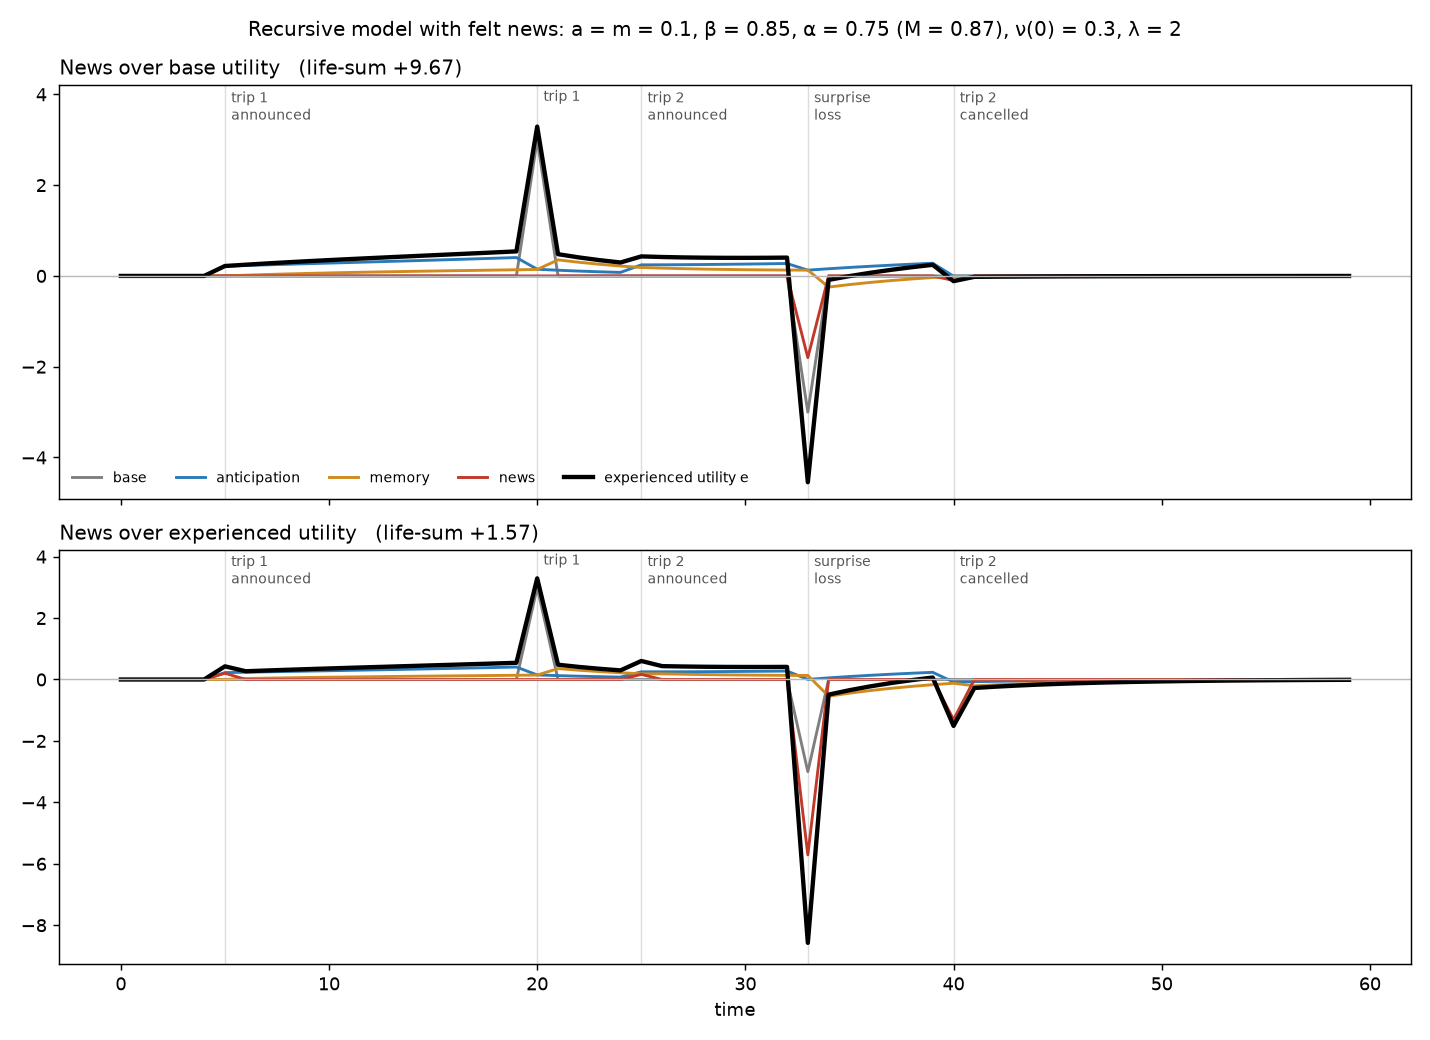
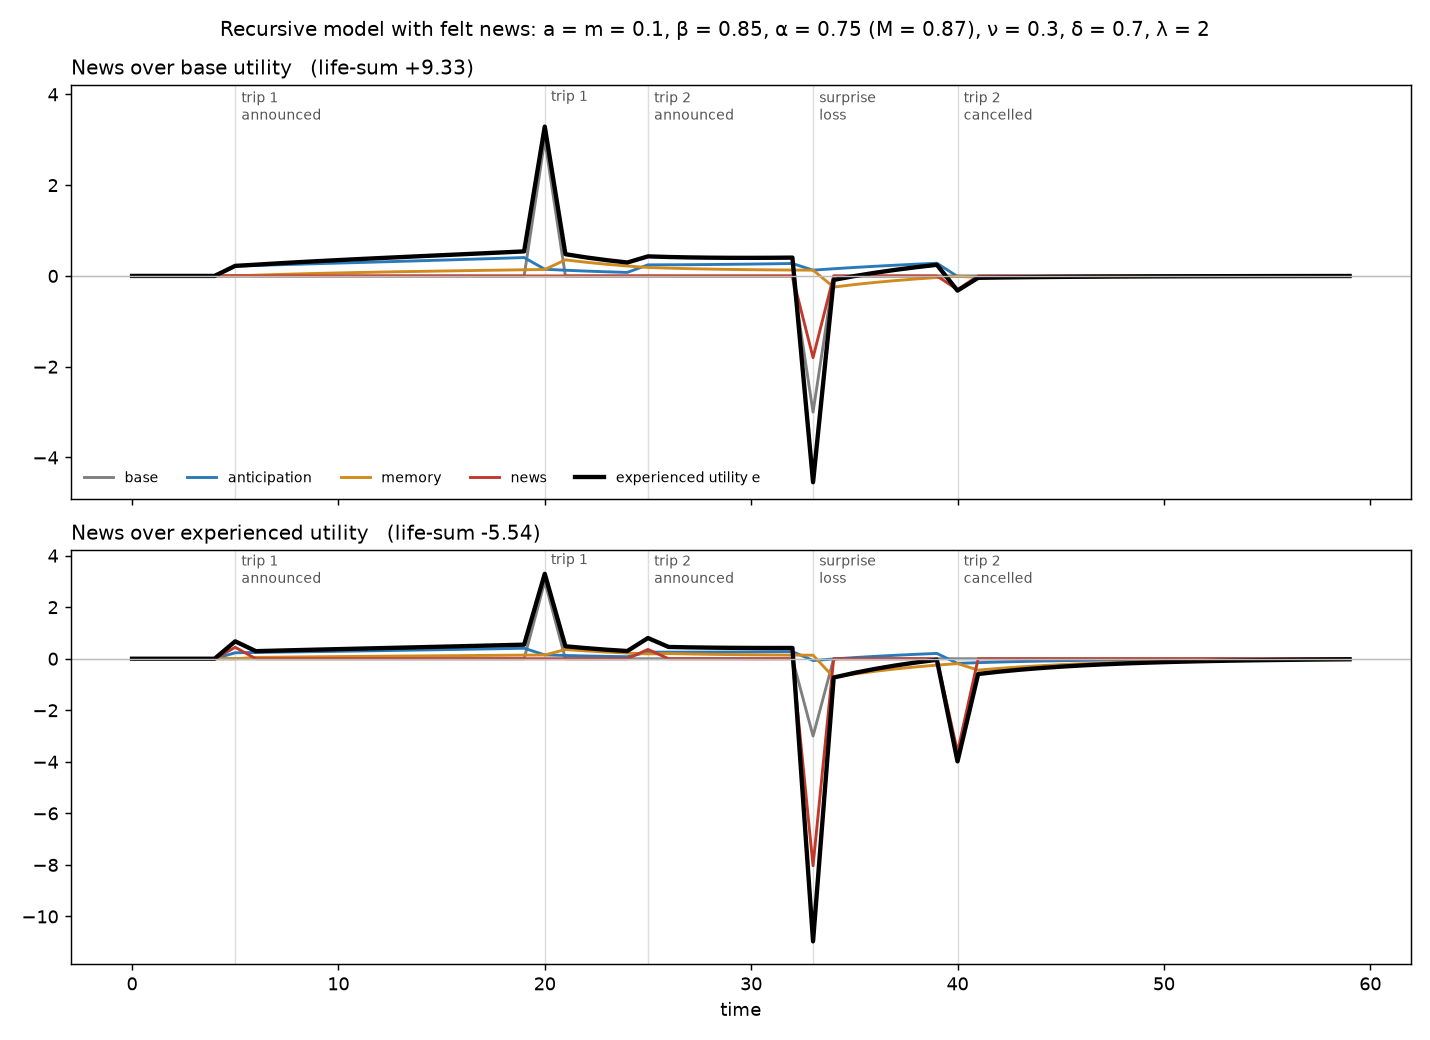
Geometric news kernel nu*delta^j; calibration anchors
- core: news nu*delta^j in the canonical equation and table; Koszegi-Rabin gamma as extension; reduced-form news numbers; calibration subsection (present-bias inversion and the echo-share bill; lambda from news-utility calibrations; the recursive-news threshold tension; Loewenstein's kiss)
- playground and pathwise: geometric news (nu, delta); figure regenerated
- checks: inversion check; reduced-form news numbers
- outline, next-steps, ledger

diff --git a/formalism/playground/index.html b/formalism/playground/index.html
@@ -240,10 +240,10 @@ footer a { color: var(--accent); }
     </section>
 
     <section class="panel" aria-labelledby="h-news">
-      <h2 id="h-news">News</h2>
-      <div class="ctl"><label for="c-nu0"><span>Surprise when it happens ν(0)</span><span class="v" id="v-nu0"></span></label><input type="range" id="c-nu0" min="0" max="0.8" step="0.01"></div>
-      <div class="ctl"><label for="c-nu1"><span>News about the future ν(1)</span><span class="v" id="v-nu1"></span></label><input type="range" id="c-nu1" min="0" max="0.4" step="0.005"></div>
-      <div class="ctl"><label for="c-nuDecay"><span>How far ahead news is felt</span><span class="v" id="v-nuDecay"></span></label><input type="range" id="c-nuDecay" min="0.3" max="0.99" step="0.01"></div>
+      <h2 id="h-news">News ν(j) = ν·δ<sup>j</sup></h2>
+      <div class="ctl"><label for="c-nu"><span>News strength ν</span><span class="v" id="v-nu"></span></label><input type="range" id="c-nu" min="0" max="0.8" step="0.01"></div>
+      <div class="ctl"><label for="c-delta"><span>News reach δ</span><span class="v" id="v-delta"></span></label><input type="range" id="c-delta" min="0" max="0.95" step="0.01"></div>
+      <span class="hint">News about j periods ahead is felt with weight ν·δ<sup>j</sup>; ν alone is the surprise when a moment arrives.</span>
       <div class="ctl"><label for="c-lam"><span>Loss aversion λ</span><span class="v" id="v-lam"></span></label><input type="range" id="c-lam" min="1" max="4" step="0.05"></div>
     </section>
 
@@ -263,7 +263,7 @@ footer a { color: var(--accent); }
   </div>
 
   <footer>
-    <span>Each self solves for its own felt experience and its forecast of the rest of its life, given what it knows. Forecasts expect no further news. News is loss-averse: bad revisions count λ times. Kernels and news weights are geometric.</span>
+    <span>Each self solves for its own felt experience and its forecast of the rest of its life, given what it knows. Forecasts expect no further news. News is loss-averse: bad revisions count λ times. Anticipation, memory and news weights are all geometric.</span>
     <span>Model: <a href="https://github.com/a9lim/convolutional-utility" target="_blank" rel="noopener">a9lim/convolutional-utility</a>, <code>formalism/core.md</code> (felt news, N1–N4) and <code>formalism/pathwise.py</code>, which this page reproduces.</span>
   </footer>
 </div>
@@ -274,7 +274,7 @@ footer a { color: var(--accent); }
   "use strict";
   const $ = (id) => document.getElementById(id);
 
-  const SHARED = { a: 0.09, b: 0.88, m: 0.05, al: 0.75, nu0: 0.3, nu1: 0.06, nuDecay: 0.97, lam: 2, base: 0, T: 50 };
+  const SHARED = { a: 0.09, b: 0.88, m: 0.05, al: 0.75, nu: 0.3, delta: 0.8, lam: 2, base: 0, T: 50 };
   const PRESETS = [
     { key: "disneyland", name: "Disneyland",
       note: "<strong>A big trip, announced early.</strong> The news lands as a jolt. The excitement fades into a lull while the trip is far away, then anticipation ramps up as it gets close. Afterwards, memory carries an afterglow. The close-up scale clips the trip itself so the build-up is visible.",
@@ -282,7 +282,7 @@ footer a { color: var(--accent); }
       events: [{ name: "Disneyland", at: 34, value: 5, announce: 6, cancel: null }] },
     { key: "trips", name: "Two trips and a surprise",
       note: "<strong>The scenario from the project figure.</strong> The first trip happens as planned, so it brings no news when it arrives. A surprise loss hits with base utility and news together, then lingers in memory. The second trip is cancelled: with news about how life will feel, that costs the anticipation you were counting on.",
-      params: { a: 0.1, b: 0.85, m: 0.1, al: 0.75, nu0: 0.3, nu1: 0.07, nuDecay: 0.7, lam: 2, base: 0, T: 60 }, over: "e", recursive: true,
+      params: { a: 0.1, b: 0.85, m: 0.1, al: 0.75, nu: 0.3, delta: 0.7, lam: 2, base: 0, T: 60 }, over: "e", recursive: true,
       events: [{ name: "Trip 1", at: 20, value: 3, announce: 5, cancel: null },
                { name: "Trip 2", at: 45, value: 3, announce: 25, cancel: 40 },
                { name: "Surprise loss", at: 33, value: -3, announce: null, cancel: null }] },
@@ -295,14 +295,14 @@ footer a { color: var(--accent); }
       params: { ...SHARED }, over: "e", recursive: true,
       events: [{ name: "Loss", at: 38, value: -4, announce: 10, cancel: null }] },
     { key: "threshold", name: "Past the threshold",
-      note: "<strong>Strong surprise weight and high loss aversion.</strong> The news loop gain λ(ν·g) is above 1. Good news then has two possible felt states (the chart keeps the brighter one), and the first bad news has none, so the life stops there. Lower λ or ν(0) to bring it back.",
-      params: { a: 0.1, b: 0.85, m: 0.1, al: 0.75, nu0: 0.45, nu1: 0.07, nuDecay: 0.7, lam: 2.5, base: 0, T: 50 }, over: "e", recursive: true,
+      note: "<strong>Strong surprise weight and high loss aversion.</strong> The news loop gain λ(ν·g) is above 1. Good news then has two possible felt states (the chart keeps the brighter one), and the first bad news has none, so the life stops there. Lower λ or ν to bring it back.",
+      params: { a: 0.1, b: 0.85, m: 0.1, al: 0.75, nu: 0.45, delta: 0.7, lam: 2.5, base: 0, T: 50 }, over: "e", recursive: true,
       events: [{ name: "Good news", at: 12, value: 3, announce: null, cancel: null },
                { name: "Bad news", at: 28, value: -3, announce: null, cancel: null }] },
   ];
 
   const SLIDERS = [
-    ["T", 0], ["base", 2], ["a", 3], ["b", 2], ["m", 3], ["al", 2], ["nu0", 2], ["nu1", 3], ["nuDecay", 2], ["lam", 2],
+    ["T", 0], ["base", 2], ["a", 3], ["b", 2], ["m", 3], ["al", 2], ["nu", 2], ["delta", 2], ["lam", 2],
   ];
   const SERIES = [
     { key: "base", color: "--s-base", label: "base" },
@@ -443,7 +443,9 @@ footer a { color: var(--accent); }
   let pending = false;
   function schedule() { if (!pending) { pending = true; requestAnimationFrame(() => { pending = false; recompute(); }); } }
   function recompute() {
-    const base = { ...state.params, events: state.events.map((e) => ({ at: e.at, value: e.value, announce: e.announce, cancel: e.cancel })), recursive: state.recursive };
+    const P = state.params;
+    const base = { ...P, nu0: P.nu, nu1: P.nu * P.delta, nuDecay: P.delta,
+                   events: state.events.map((e) => ({ at: e.at, value: e.value, announce: e.announce, cancel: e.cancel })), recursive: state.recursive };
     result = ConvModel.simulate({ ...base, over: state.over });
     ghost = state.ghost ? ConvModel.simulate({ ...base, over: state.over === "e" ? "u" : "e" }) : null;
     draw(); status();
@@ -591,7 +593,7 @@ footer a { color: var(--accent); }
   }
   function readout(t) {
     const r = $("readout"); r.textContent = "";
-    if (t == null) { r.textContent = "No felt state from the start: lower λ or ν(0)."; return; }
+    if (t == null) { r.textContent = "No felt state from the start: lower λ or ν."; return; }
     const add = (label, v, color) => {
       const s = document.createElement("span"); s.className = "r";
       if (color) { const i = document.createElement("i"); i.style.setProperty("--c", css(color)); s.appendChild(i); }

diff --git a/formalism/checks.py b/formalism/checks.py
@@ -466,7 +466,7 @@ print(f"RF  r(0) = {r0:.3f}, p = {p:.3f}, q = {q:.3f}; reach fwd {1 / (1 - b):.1
       f"bwd {1 / (1 - al):.1f} -> {1 / (1 - q):.1f}")
 T, t0 = 120, 40
 kf_r, kb_r = pw.kernels(T, a, b, m, al)
-nu_r = np.array([0.3] + [0.06 * 0.97 ** (j - 1) for j in range(1, T)])
+nu_r = 0.3 * 0.8 ** np.arange(T)
 eff, prim = [], []
 for h in (1, 5, 20, 30, 50):
     ev = [(t0, t0 + h, 1.0, None)]
@@ -481,3 +481,12 @@ for T in (50, 2000):
     jj = j[: T - 1]
     M_T = (a / (1 - np.log(b) * jj)).sum() + (m / (1 - np.log(al) * jj)).sum()
     print(f"P1d simple-hyperbolic tails: M_T = {M_T:.2f} at T = {T}")
+
+# Calibration: invert present bias to one-sided primitives; the echo share it implies
+err = 0.0
+for bL, d in [(0.7, 0.96), (0.9, 0.96), (0.7, 0.9)]:
+    a, b = bL / (1 - bL), d * (1 - bL)
+    r = resolvent_line(a, b, 0.0, 0.5)
+    M_pred = bL * d / (1 - d + bL * d)
+    err = max(err, abs(r[1] / (r[0] * r[2] / r[1]) - bL), abs(r[2] / r[1] - d), abs(mass(a, b, 0.0, 0.5) - M_pred))
+report("CAL inversion a = bL/(1-bL), beta = d(1-bL); M = bL d/(1-d+bL d)", err)

diff --git a/formalism/pathwise.py b/formalism/pathwise.py
@@ -74,7 +74,7 @@ def run(T, base, events, kf, kb, nu, lam, over):
 
 T = 60
 KF, KB = kernels(T, 0.1, 0.85, 0.1, 0.75)
-NU = np.array([0.3] + [0.1 * 0.7 ** j for j in range(1, T)])
+NU = 0.3 * 0.7 ** np.arange(T)          # nu(j) = nu * delta^j, nu = 0.3, delta = 0.7
 EVENTS = [(5, 20, 3.0, None),       # trip announced at 5, happens at 20
           (25, 45, 3.0, 40),        # second trip announced at 25, cancelled at 40
           (None, 33, -3.0, None)]   # unannounced loss at 33
@@ -103,7 +103,7 @@ if __name__ == "__main__":
     axes[0].legend(loc="lower left", fontsize=8, ncol=5, frameon=False)
     axes[1].set_xlabel("time")
     fig.suptitle("Recursive model with felt news: a = m = 0.1, β = 0.85, α = 0.75 (M = 0.87), "
-                 "ν(0) = 0.3, λ = 2", fontsize=11)
+                 "ν = 0.3, δ = 0.7, λ = 2", fontsize=11)
     fig.tight_layout()
     fig.savefig(out, dpi=130)
     print(f"saved {out}")

diff --git a/formalism/core.md b/formalism/core.md
@@ -13,11 +13,11 @@ utility. In causal form, for each moment `t` of a life `[0, T)`:
 e_t = u_t                                                          base
     + Σ_{j=1}^{T−1−t} a β^j  Ê_t[e_{t+j}]                           anticipation
     + Σ_{j=1}^{t}     m α^j  e_{t−j}                                memory
-    + Σ_{j=0}^{T−1−t} ν(j)   μ_λ( Ê_t[e_{t+j}] − Ê_{t−1}[e_{t+j}] )  news
+    + Σ_{j=0}^{T−1−t} ν δ^j  μ_λ( Ê_t[e_{t+j}] − Ê_{t−1}[e_{t+j}] )  news
 ```
 
-- `Ê_t` is the self's forecast at `t`, with `Ê_t[e_t] = e_t`. `ν(0) = ν₀`, `ν(j) = ν₁ δ^{j−1}`
-  for `j ≥ 1`. `μ_λ(x) = x` for `x ≥ 0` and `λx` for `x < 0`.
+- `Ê_t` is the self's forecast at `t`, with `Ê_t[e_t] = e_t`. `μ_λ(x) = x` for `x ≥ 0` and
+  `λx` for `x < 0`. All three channels have geometric primitives; recursion reshapes them.
 - Welfare is the life-sum `W = Σ_t e_t`, scored by the objective expectation.
 - Well-founded iff `M = aβ/(1−β) + mα/(1−α) < 1` (echoes converge, P1) and `λ(ν·g) < 1`
   (felt news is unique, N4).
@@ -28,23 +28,55 @@ e_t = u_t                                                          base
 | `β` | anticipation reach | the ramp before an event; mean reach `1/(1−β)` |
 | `m` | memory strength | the afterglow; backward mass `B = mα/(1−α)` |
 | `α` | memory reach | how long the afterglow lasts; mean reach `1/(1−α)` |
-| `ν₀` | surprise when a moment arrives | elation or disappointment against the last forecast (N3) |
-| `ν₁`, `δ` | news about the future | the jolt on hearing; `δ` sets how far ahead news is felt |
+| `ν` | news strength | the surprise when a moment arrives (`j = 0`) and the size of the jolt on hearing |
+| `δ` | news reach | how far ahead news is felt; `δ = 0` keeps only surprise on arrival |
 | `λ` | loss aversion of news | prices information (N2); sets the despair threshold (N4) |
 
 **The reduced form.** With `λ = 1`, on ℤ, the canonical model is a direct model with
 effective coefficients (P2, P4, N4):
 `e_t = r(0) u_t + Σ_{n≥1} (r(0) − 1/(1+a)) pⁿ u_{t+n} + Σ_{n≥1} (r(0) − 1/(1+m)) qⁿ u_{t−n}`,
 plus direct news with an echoed kernel `ν′`.
-- Example (`a = 0.09, β = 0.88, m = 0.05, α = 0.75, ν₀ = 0.3, ν₁ = 0.06, δ = 0.97`):
+- Example (`a = 0.09, β = 0.88, m = 0.05, α = 0.75, ν = 0.3, δ = 0.8`):
   `r(0) = 1.032`, `p = 0.971`, `q = 0.798`. Anticipation's mean reach stretches from 8.3 to
   35 periods, and memory's from 4.0 to 4.9. [checked]
-- The echoed news kernel rises with distance before it falls: per unit of news about `h`
-  periods ahead, `ν′ = 0.15, 0.17, 0.19, 0.19, 0.15` at `h = 1, 5, 20, 30, 50`, against the
-  primitive `0.06, 0.053, 0.034, 0.025, 0.013`. News about a further-off event changes more
-  days of anticipation. [checked]
+- The echoed news kernel takes anticipation's reach: per unit of news about `h` periods
+  ahead, `ν′ = 0.45, 0.31, 0.15, 0.11, 0.06` at `h = 1, 5, 20, 30, 50`, against the
+  primitive `ν δ^h = 0.24, 0.098, 0.0035, 0.0004, 0.000004`. News about a far event is
+  felt through the days of anticipation it changes. With a flatter primitive (`δ` near 1)
+  the echoed kernel even rises with distance at first. [checked]
+- Even `δ = 0`, surprise on arrival alone, produces a jolt on hearing: today's experience
+  contains today's anticipation, which the news has just changed.
+- Extension: Kőszegi & Rabin's `γ` splits surprise on arrival from news about later,
+  `ν(0) = ν`, `ν(j) = γνδ^j`. Pagel (2018) explores `γ = 0.2`–`0.8`.
 - Closed forms live in the reduced form (P5, P6, decision.md D3). Boundaries, nonlinearity
   and restrictions on the kernel family are where the two forms part (the 2×2 below).
+
+**Calibration.** What pins the coefficients, as far as known. [anchors marked "to verify"
+are being checked]
+- Constraints, not values: `M < 1`; `λ(ν·g) < 1`.
+- Present bias inverts to primitives (one-sided P3): `a = β_L/(1−β_L)`, `β = δ_lr (1−β_L)`,
+  with `δ_lr` the long-run per-period discount factor. Hence `M = β_L δ_lr / (1 − δ_lr + β_L δ_lr)`.
+  [proved; checked at annual periods]
+  - If all present bias came from recursion, realistic values would put the echo share near
+    1: `β_L = 0.7` gives `M = 0.94` with annual periods (base utility one eighteenth of
+    felt experience) and `M = 0.9998` with daily periods. Two-sided with modest memory
+    (`m = 0.05, α = 0.75`, `β_L = 0.7`, `p = 0.96`): `M = 0.965`. So recursion is likely one
+    source of present bias among several, and "discounting is an echo" carries this bill.
+    [checked]
+- `λ ≈ 2`–`2.6` in news-utility calibrations (Pagel 2018: `η = 1`, `λ = 2`–`2.5`; `λ ≈ 2.6`
+  matching stock-market evidence). A meta-analytic loss-aversion estimate is to verify.
+- Tension: the standard `η = 1, λ = 2.5` would put recursive news past the threshold,
+  which needs `νλ` well below 1 (the `j = 0` term alone needs `νλ < 1`). Either news is
+  felt more weakly than consumption utility, or it is about base utility (direct news).
+- Anticipation reach for small pleasures is days: people pay more for a kiss three days
+  away than now, and more to avoid a shock delayed three hours to three days than an
+  immediate one (Loewenstein 1987).
+- Still to verify: anticipation against memory strength (vacation studies; Caruso,
+  Gilbert & Wilson 2008); realization surprise in outcome units (Rutledge et al. 2014;
+  Shepperd & McNulty 2002); how much of experience concerns past and future
+  (Killingsworth & Gilbert 2010).
+- Identification (P10; Eliaz & Spiegler's ordinality) means choices alone cannot pin the
+  hedonic coefficients. Experience sampling around scheduled events can.
 
 ## Objects
 

diff --git a/next-steps.md b/next-steps.md
@@ -2,9 +2,12 @@
 
 Ordered by dependency.
 
-1. **Pick the spine.** Leading candidate: beliefs are welfare (D5), with the past self as
+1. **Calibrate** (core, the canonical model): fold in the anchors being verified; decide
+   how to treat the echo-share bill on "discounting is an echo" and the news-utility
+   calibration tension.
+2. **Pick the spine.** Leading candidate: beliefs are welfare (D5), with the past self as
    predictor (D1, D3, D6) second and the life-sum results (P5, P6) as setup.
-2. **Beliefs are welfare** (`decision.md` D5), the formal work the spine needs:
+3. **Beliefs are welfare** (`decision.md` D5), the formal work the spine needs:
    - the news structure: when anticipation updates, and what a single piece of news does
      to `e` pathwise, D and R;
    - dread of dread: the recursive-model information price, analytically (when does the
@@ -27,7 +30,7 @@ Ordered by dependency.
      Caplin & Leahy 2001 on time inconsistency)?
    - answer the LessWrong objections: "Not for the Sake of Happiness (Alone)" and
      "Doublethink".
-3. **Close prior-art gaps** that could hit the claimed results:
+4. **Close prior-art gaps** that could hit the claimed results:
    - D5: Bénabou & Tirole 2016 and Eil & Rao 2011 full texts (blocked so far);
      Kőszegi & Rabin 2009 §§III–IV;
    - Bernheim & Thomadsen 2005, "Memory and anticipation" (paywalled; library copy) — the
@@ -38,19 +41,19 @@ Ordered by dependency.
    - the JPET version of Bergstrom 1999 §5;
    - Elster & Loewenstein 1992 (library copy);
    - Dorsey 2015 full text.
-4. **Decision theory** (`decision.md`):
+5. **Decision theory** (`decision.md`):
    - D6 worked example: reliability's anticipation value against the local gain from
      defecting, with both the acausal and the self-reputation channel;
    - make `J` concrete for imperfect foresight: past forecasts as noisy predictions of
      the policy, and FDT's `J` as a function of predictability;
    - the recursive-model analogue of the D3 stopping conditions, and the `β < α` case;
    - read Kőszegi 2010 §3.2 closely, since D3's mechanism is his.
-5. **Formal loose ends** (`core.md`):
+6. **Formal loose ends** (`core.md`):
    - check the stock-form ODE numerically;
    - sign-asymmetric kernels (what survives of P6 and D3?); these also feed D5;
    - power-law kernels.
-6. **Anthropics** — pin A1 against Armstrong's ADT text and Greaves 2004.
-7. **Figures:**
+7. **Anthropics** — pin A1 against Armstrong's ADT text and Greaves 2004.
+8. **Figures:**
    - `w(s)` profiles;
    - the lens plot (P7);
    - a ramp-sign phase diagram in `(β, α)`;

diff --git a/outline.md b/outline.md
@@ -23,7 +23,7 @@ centrality ("moments matter by their echo"), discounting ("discounting is an ech
 - **The model.** One equation: experienced utility is base utility plus anticipation and
   memory of experienced utility, plus felt news about it (core, the canonical model).
   *synthesis*
-  - Present it in full, with the coefficient table: what `a, β, m, α, ν₀, ν₁, δ, λ` each
+  - Present it in full, with the coefficient table: what `a, β, m, α, ν, δ, λ` each
     do, and the two conditions (`M < 1`, `λ(ν·g) < 1`).
   - The direct form is its reduced form, mentioned as an equivalent model under
     reparametrization (P2, N4); recursion stretches anticipation's reach and makes news

diff --git a/ledger.md b/ledger.md
@@ -52,3 +52,7 @@ Periodically compacted to git history.
 - Canonicalized recursive echoes with recursive news as the main model (a9's suggestion);
   the direct form is presented as its reduced form. A full comparison of discounting
   schemes was started and dropped at a9's call once the tail result was clear (P1d).
+- News kernel simplified to `ν δ^j` (a9's suggestion), matching the anticipation and memory
+  kernels; Kőszegi & Rabin's `γ` kept as an extension. Calibration: inverting present bias
+  shows recursion alone would need an echo share near 1, and standard news-utility
+  calibrations sit past the recursive-news threshold.
